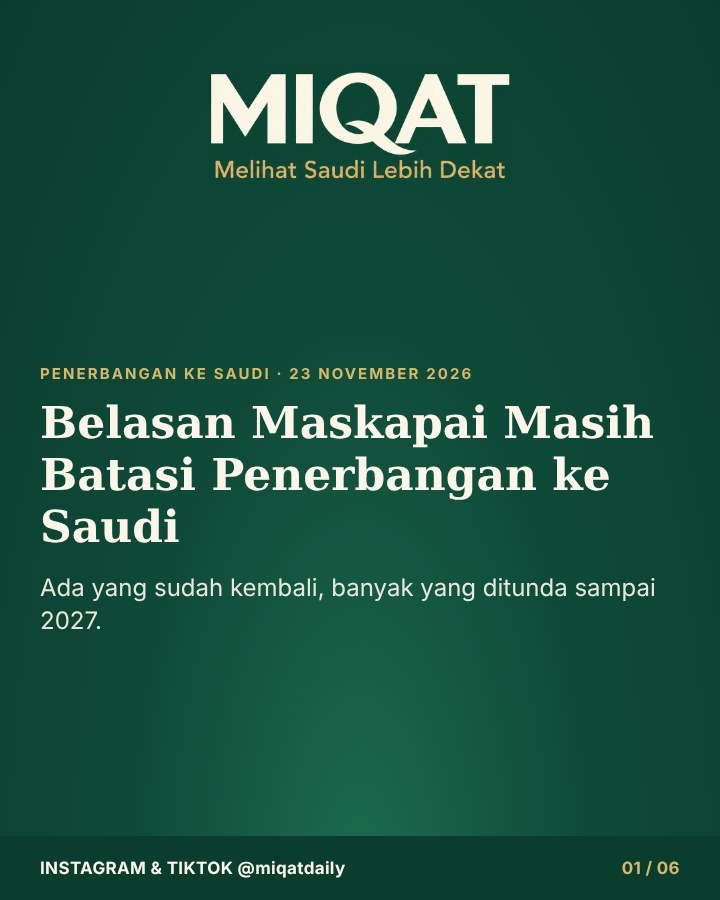
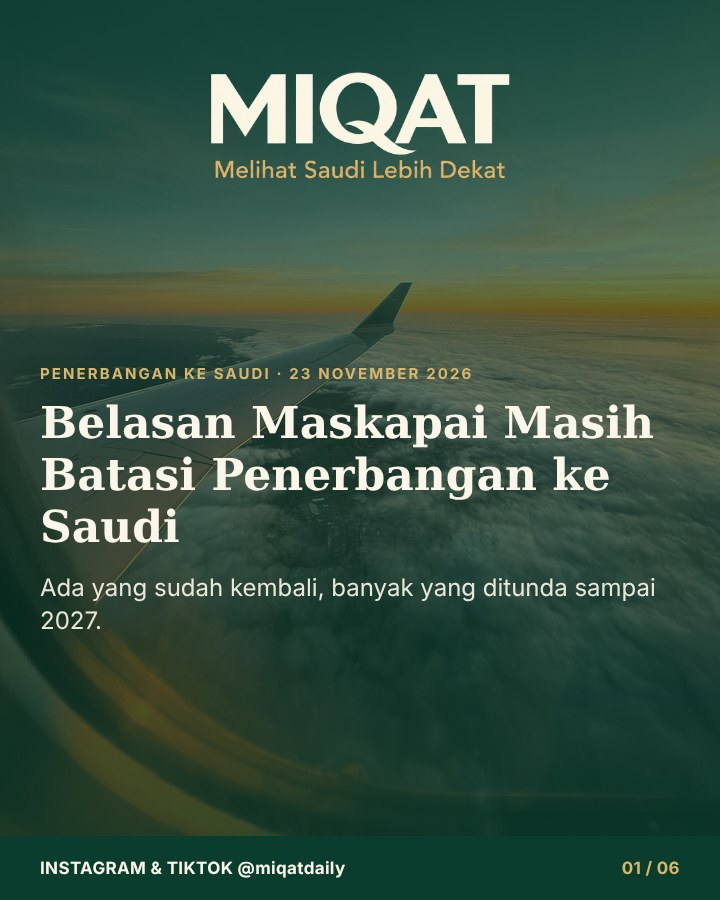
Pembaruan maskapai ke Saudi 23 Nov: foto cover Jake Nackos (Unsplash), kredit foto
Claude-Session: https://claude.ai/code/session_011iiFqw6PEAYo84HQeoExRH

diff --git a/content/posts/pembaruan-maskapai-ke-saudi-23-nov/article.md b/content/posts/pembaruan-maskapai-ke-saudi-23-nov/article.md
@@ -26,3 +26,7 @@ Pada 26 Oktober 2026, Kementerian Haji dan Umrah RI mengimbau jemaah dan penyele
 **Apa yang bisa dilakukan jemaah**
 
 Pastikan jadwal dan status penerbangan lewat PPIU sebelum berangkat, pantau arahan Kemenhaj, KBRI Riyadh, KJRI Jeddah, dan Kemlu, dan jangan memutuskan berdasarkan kabar yang belum terverifikasi. Bila rute transit berubah, minta penjelasan tertulis dari penyelenggara.
+
+**Catatan redaksi**
+
+Foto cover: Jake Nackos (Unsplash). Foto ilustrasi, bukan dokumentasi penerbangan tertentu.
